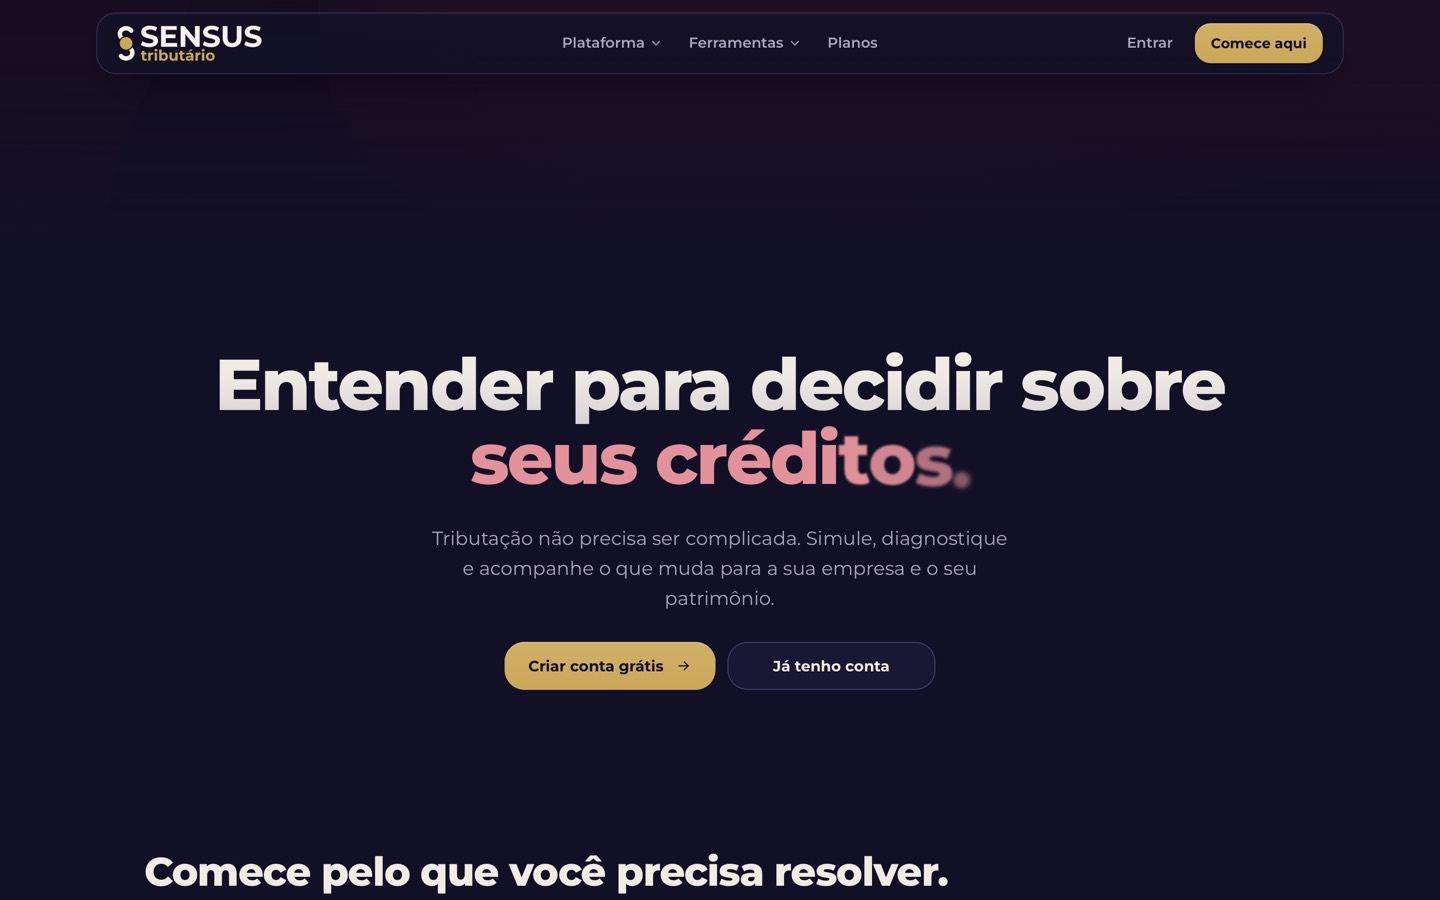
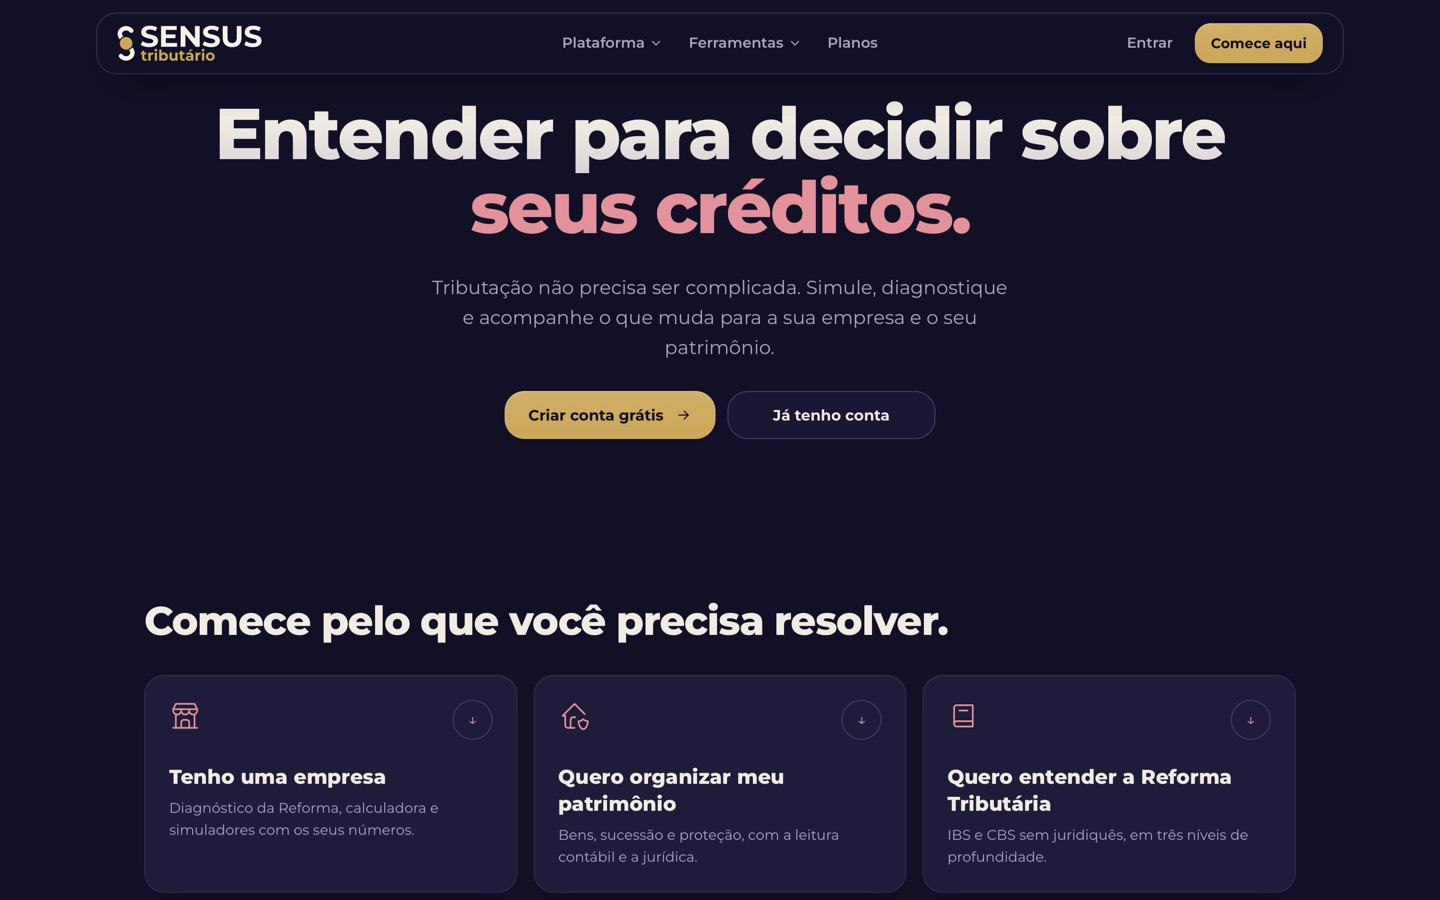
Sensus completo na vitrine: mais telas e versão de celular
Sequência dentro da moldura: abertura, título, Radar e Respostas;
celular sobreposto com a página inicial mobile real.

diff --git a/index.html b/index.html
@@ -93,8 +93,11 @@
               <div class="viewport"><div class="strip">
                 <img src="assets/sensus/desktop-1.jpg" width="1440" height="900" alt="Abertura da plataforma Sensus, com o símbolo S da marca">
                 <img src="assets/sensus/desktop-2.jpg" width="1440" height="900" loading="lazy" alt="Página inicial do Sensus: Entender para decidir sobre seus créditos">
+                <img src="assets/sensus/desktop-3.jpg" width="1440" height="900" loading="lazy" alt="">
+                <img src="assets/sensus/desktop-4.jpg" width="1440" height="900" loading="lazy" alt="">
               </div></div>
             </div>
+            <div class="phone"><img src="assets/sensus/mobile.jpg" width="600" height="1299" loading="lazy" alt="Sensus no celular"></div>
           </div>
           <div class="info">
             <span class="pnum">02</span>
